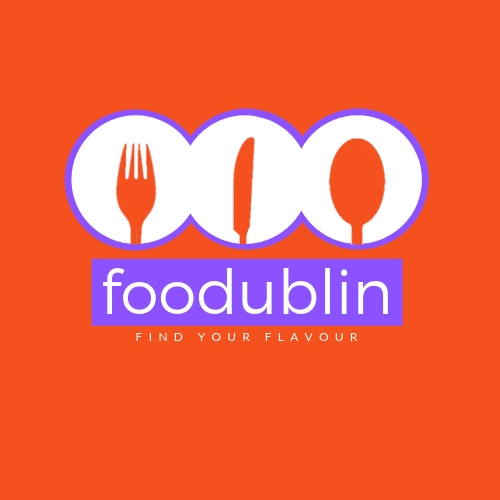
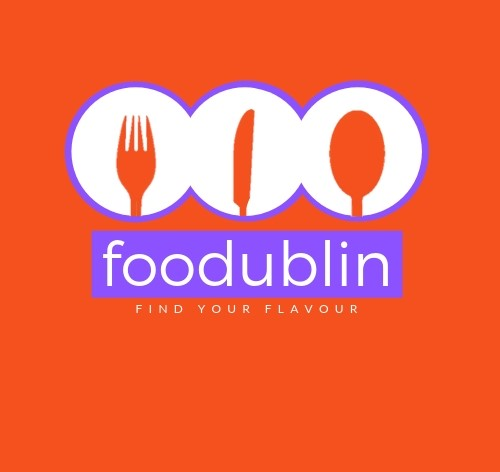
Title Boxes to Gallery
Adding CSS title boxes to gallery items

Changed region(s): [[0.12, 0.1483, 0.87, 0.6822]]

diff --git a/index.html b/index.html
@@ -123,10 +123,11 @@
       <div class="container">
         <div class="row">
 
-          <div class="col-xs-6 col-md-4">
+          <div class="col-xs-6 col-md-4 marktitle">
             <div class="overlay_cont">
               <div class="cont_hover">
                 <img src="templebar2.jpg" alt="dublin.ie" class="event_img">
+                <h2> Temple Bar </h2>
                 <div class="overlay">
                   <div class="overlay_text">
                     <p>Running on <strong>Saturdays from 10-14:30</strong>, this market at the centre of Dublin offers great fresh options, rain or shine. Check them out on facebook!</p>
@@ -458,7 +459,7 @@
           <div class="card">
             <img src="Maddy.jpg" alt="Maddy Williams" class="team_image">
             <div class="container_team" id="team_text">
-              <h2 class="team_name">Maddy Williams</h2>
+              <h3 class="team_name">Maddy Williams</h3>
               <p>Hi! I'm a 1st year Maths and Philosophy student studying at Trinity College Dublin. I love great food and travelling and am happy to answer any questions you might have.</p>
               <p><span class="glyphicon glyphicon-envelope"></span>  william8@tcd.ie</p> <!--edit to text made to keep info boxes same height -->
             </div>
@@ -469,7 +470,7 @@
           <div class="card">
             <img src="Ciara.jpg" alt="Ciara O'Flaherty" class="team_image">
             <div class="container_team" id="team_text">
-              <h2 class="team_name">Ciara O'Flaherty</h2>
+              <h3 class="team_name">Ciara O'Flaherty</h3>
               <p>Hi there, I'm a second year Art History and Sociology student at TCD. We believe we've compiled Dublin's best of the best foodie spots, let us know if you agree!</p>
               <p><span class="glyphicon glyphicon-envelope"></span>  oflaheci@tcd.ie </p>
             </div>
@@ -480,7 +481,7 @@
           <div class="card">
             <img src="Yung_Ling.JPG" alt="YungL-Ling_Hou" class="team_image">
             <div class="container_team" id="team_text">
-              <h2 class="team_name">Yung Ling Hou</h2>
+              <h3 class="team_name">Yung Ling Hou</h3>
               <p>I'm a third year Business and Sociology student at Trinity College Dublin. I hope you will find something to your taste from our many recommendations!</p>
               <p><span class="glyphicon glyphicon-envelope"></span>   houy@tcd.ie</p>
             </div>

diff --git a/CSS/styles.css b/CSS/styles.css
@@ -75,7 +75,7 @@
 .Logo {
   padding-top: 10px;
   height: auto;
-  width: 600px;
+  width: 900px;
 }
 
 
@@ -185,6 +185,20 @@
     top: 20%;
   }
 }
+
+.marktitle {
+  position: relative;
+  width: 100%;
+}
+h2 {color: rgb(255,255,255);
+  position: absolute;
+  left: 32px;
+  top: 40%;
+  width: 80%;
+  padding: 25px;
+  text-align: center;
+  background-color: #8c52ff;
+ }
 
 /*---------------------------gallery--------------------------*/
 
